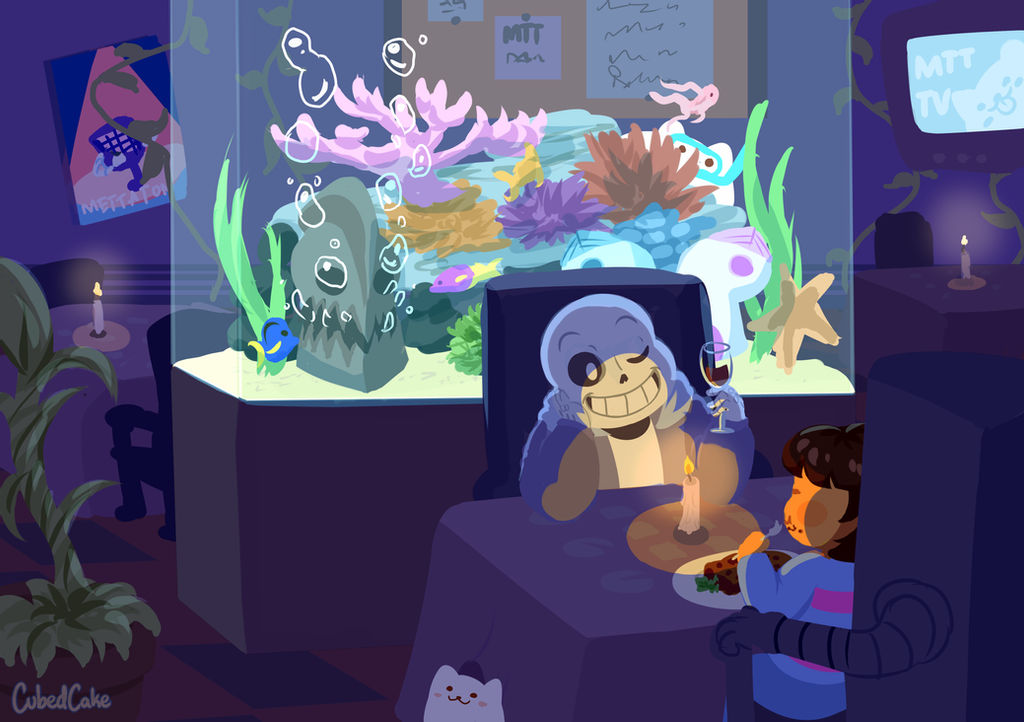
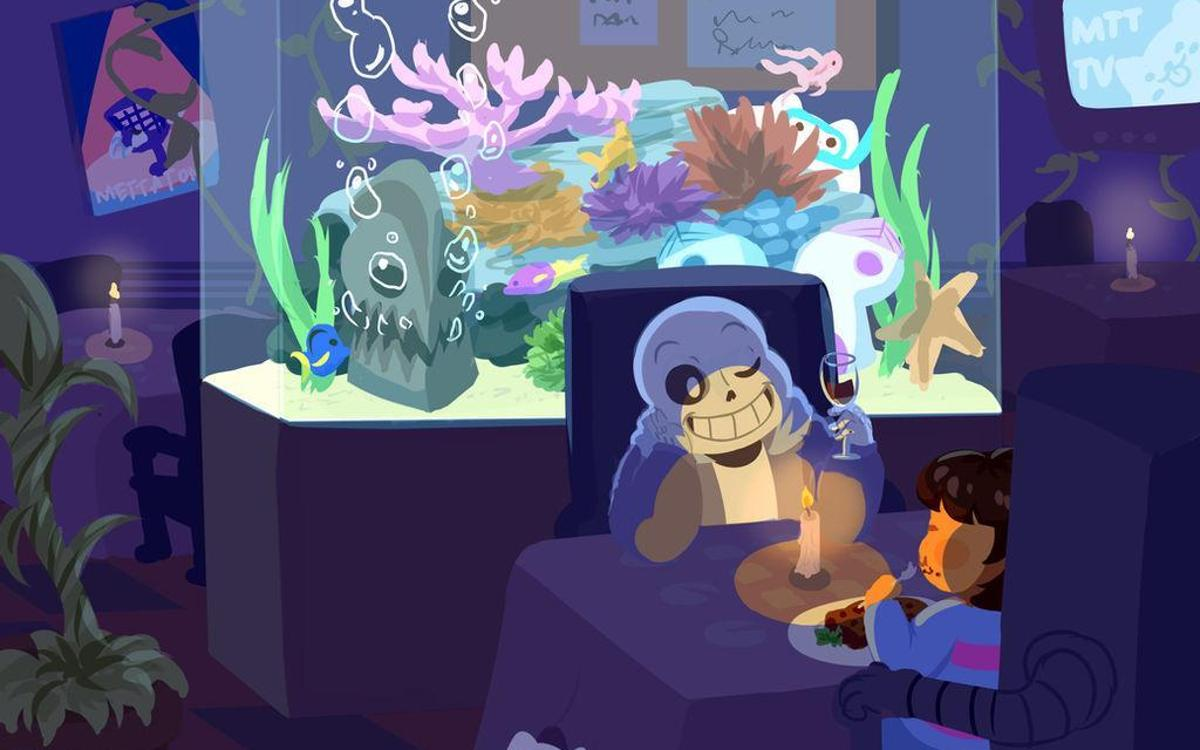
resized images and tidied css

diff --git a/public/css/main.css b/public/css/main.css
@@ -183,16 +183,22 @@ tr.table_row_border, td{
     visibility: visible;
 }
 
+/* Other review-modal.html css */
+/*---------------------------------------------------------------------------*/
+#reviewTable{
+    background-color: #EE4C7C;
+}
+
 /* restaurant-modal.html css */
 /*---------------------------------------------------------------------------*/
 
 .table>tbody>tr>td, .table>tbody>tr>th, .table>tfoot>tr>td, .table>tfoot>tr>th, .table>thead>tr>td, .table>thead>tr>th {
     padding:20px;
     vertical-align: middle;
-    border: 5px solid black;
-    border-top: 5px solid black;
+    border: 5px solid #E3E2DF;
+    border-top: 5px solid #E3E2DF;
     border-radius: 25px;
-    border-style: dashed;
+    color:#E3E2DF;
     
 }
 
@@ -202,9 +208,14 @@ tr.table_row_border, td{
 
 
 /* Overridng default css */
+/*---------------------------------------------------------------------------*/
 button, input, optgroup, select, textarea {
     color: #E3E2DF;
     background-color: #EE4C7C;
+}
+
+button{
+    padding: 10px;
 }
 
 body{
@@ -216,9 +227,21 @@ body{
     opacity: 1; /* Firefox */
   }
 
-h1, h2{
-    color: #EE4C7C;
+h1, h2, h3{
+    color:  #E3E2DF;
   }
+
+p, span{
+    color:  #E3E2DF;
+}
+
+p{
+    margin: 10px 0px 0px 0px;
+}
+
+label{
+    color:  #E3E2DF;
+}
 
 a:-webkit-any-link {
     color: #5D001E;
@@ -228,6 +251,34 @@ a:-webkit-any-link {
 
 footer{
     background-color: #E3E2DF;
+}
+
+.col-lg-1, .col-lg-10, .col-lg-11, .col-lg-12, .col-lg-2, .col-lg-3, .col-lg-4, .col-lg-5, .col-lg-6, .col-lg-7, .col-lg-8, .col-lg-9, .col-md-1, .col-md-10, .col-md-11, .col-md-12, .col-md-2, .col-md-3, .col-md-4, .col-md-5, .col-md-6, .col-md-7, .col-md-8, .col-md-9, .col-sm-1, .col-sm-10, .col-sm-11, .col-sm-12, .col-sm-2, .col-sm-3, .col-sm-4, .col-sm-5, .col-sm-6, .col-sm-7, .col-sm-8, .col-sm-9, .col-xs-1, .col-xs-10, .col-xs-11, .col-xs-12, .col-xs-2, .col-xs-3, .col-xs-4, .col-xs-5, .col-xs-6, .col-xs-7, .col-xs-8, .col-xs-9 {
+    position: relative;
+    min-height: 1px;
+    padding-right: 15px;
+    padding-left: 15px;
+    padding-top: 15px;
+    padding-bottom: 15px;
+}
+
+/* modal overwrites */
+/*---------------------------------------------------------------------------*/
+.modal-header{
+    background-color: #9A1750 ; 
+}
+
+.modal-body{
+    background-color: #9A1750 ; 
+}
+
+.modal-footer{
+    background-color: #E3E2DF;
+    padding: 0px;
+}
+
+tr{
+    pointer-events: none;
 }
 
   /* profile-html css */

diff --git a/public/restaurant-modal.html b/public/restaurant-modal.html
@@ -50,7 +50,12 @@
                     </div>
                     
                 </div>
+
+                <br>
+                
                 <div class="modal-footer">
+                    <a href="https://icons8.com/icon/67516/star">Star icon by Icons8</a>
+                    <a href="https://icons8.com/icon/104578/star">Star icon by Icons8</a>
                     <button type="button" class="btn btn-secondary bg-dark" data-dismiss="modal">Close</button>
                 </div>
             </div>

diff --git a/public/home.html b/public/home.html
@@ -67,6 +67,9 @@
             <div w3-include-html="new-review-modal.html"></div>
             <div w3-include-html="other-review-modal.html"></div>
         </main>
+        
+        <br>
+
         <footer>
             <a href="https://icons8.com/icon/83981/delete">Delete icon by Icons8</a>a>
         </footer>

diff --git a/public/other-review-modal.html b/public/other-review-modal.html
@@ -9,7 +9,6 @@
             </div>
 
             <div id="reviewTable" class="col"></div>
-
             <div class="modal-footer">
                 <a href="https://icons8.com/icon/67516/star">Star icon by Icons8</a>
                 <a href="https://icons8.com/icon/104578/star">Star icon by Icons8</a>
